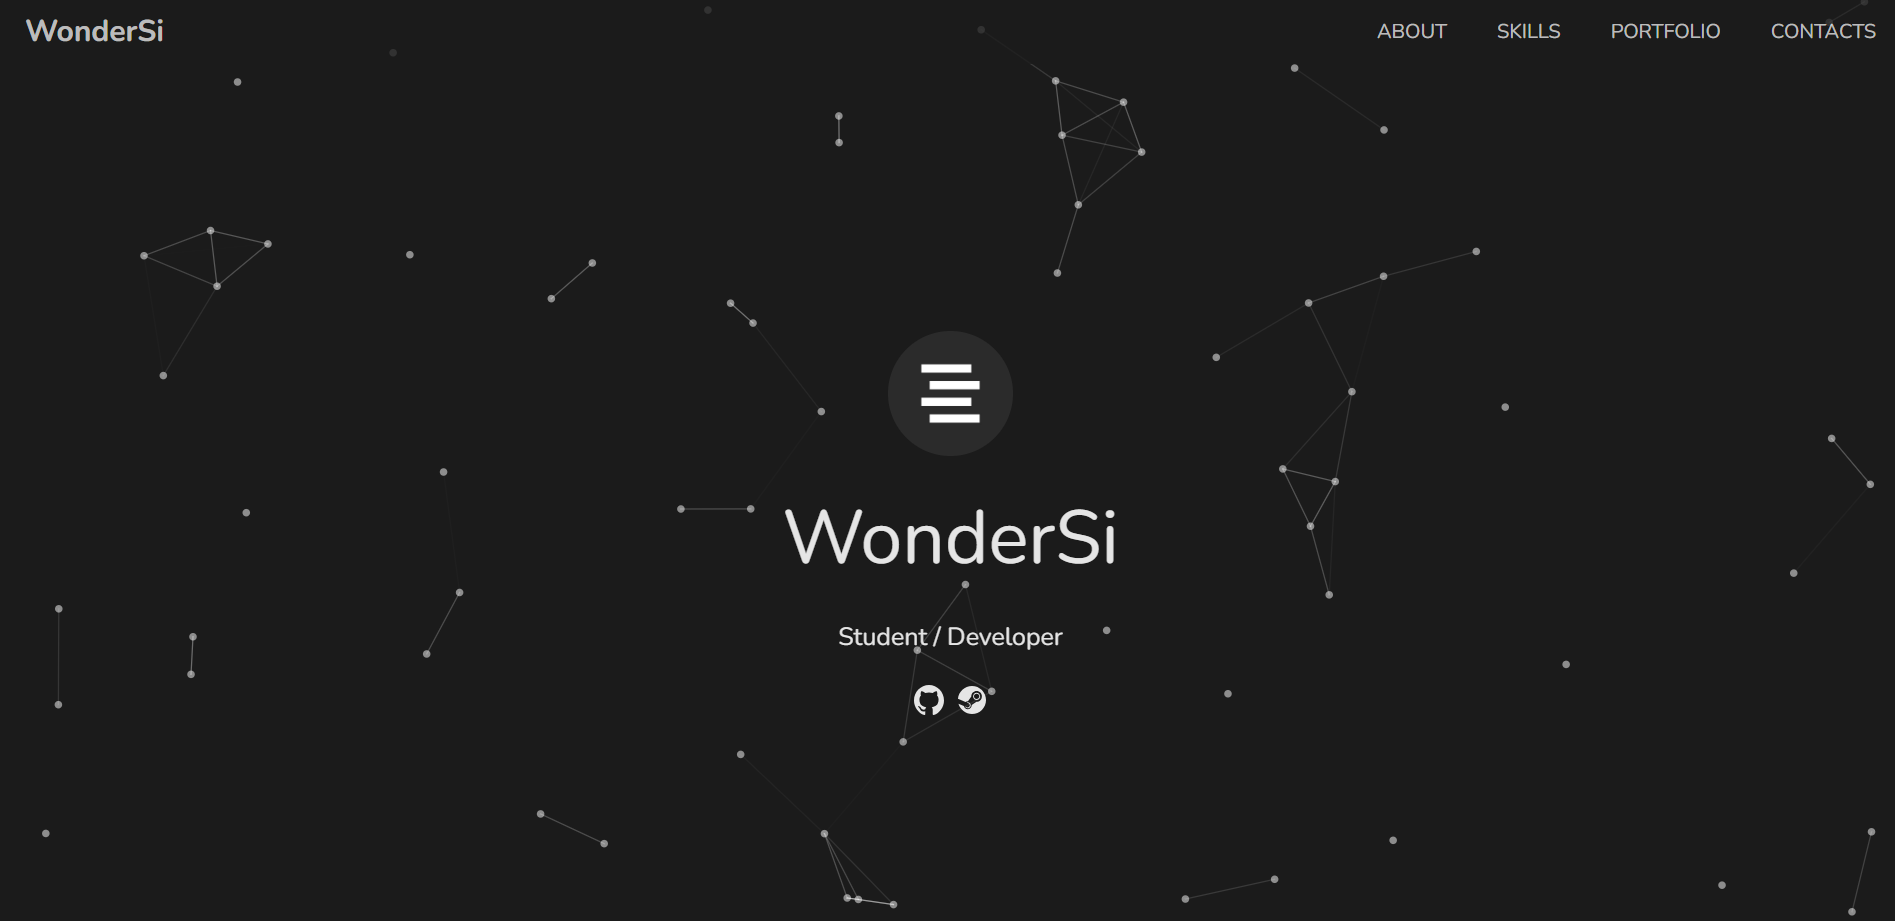
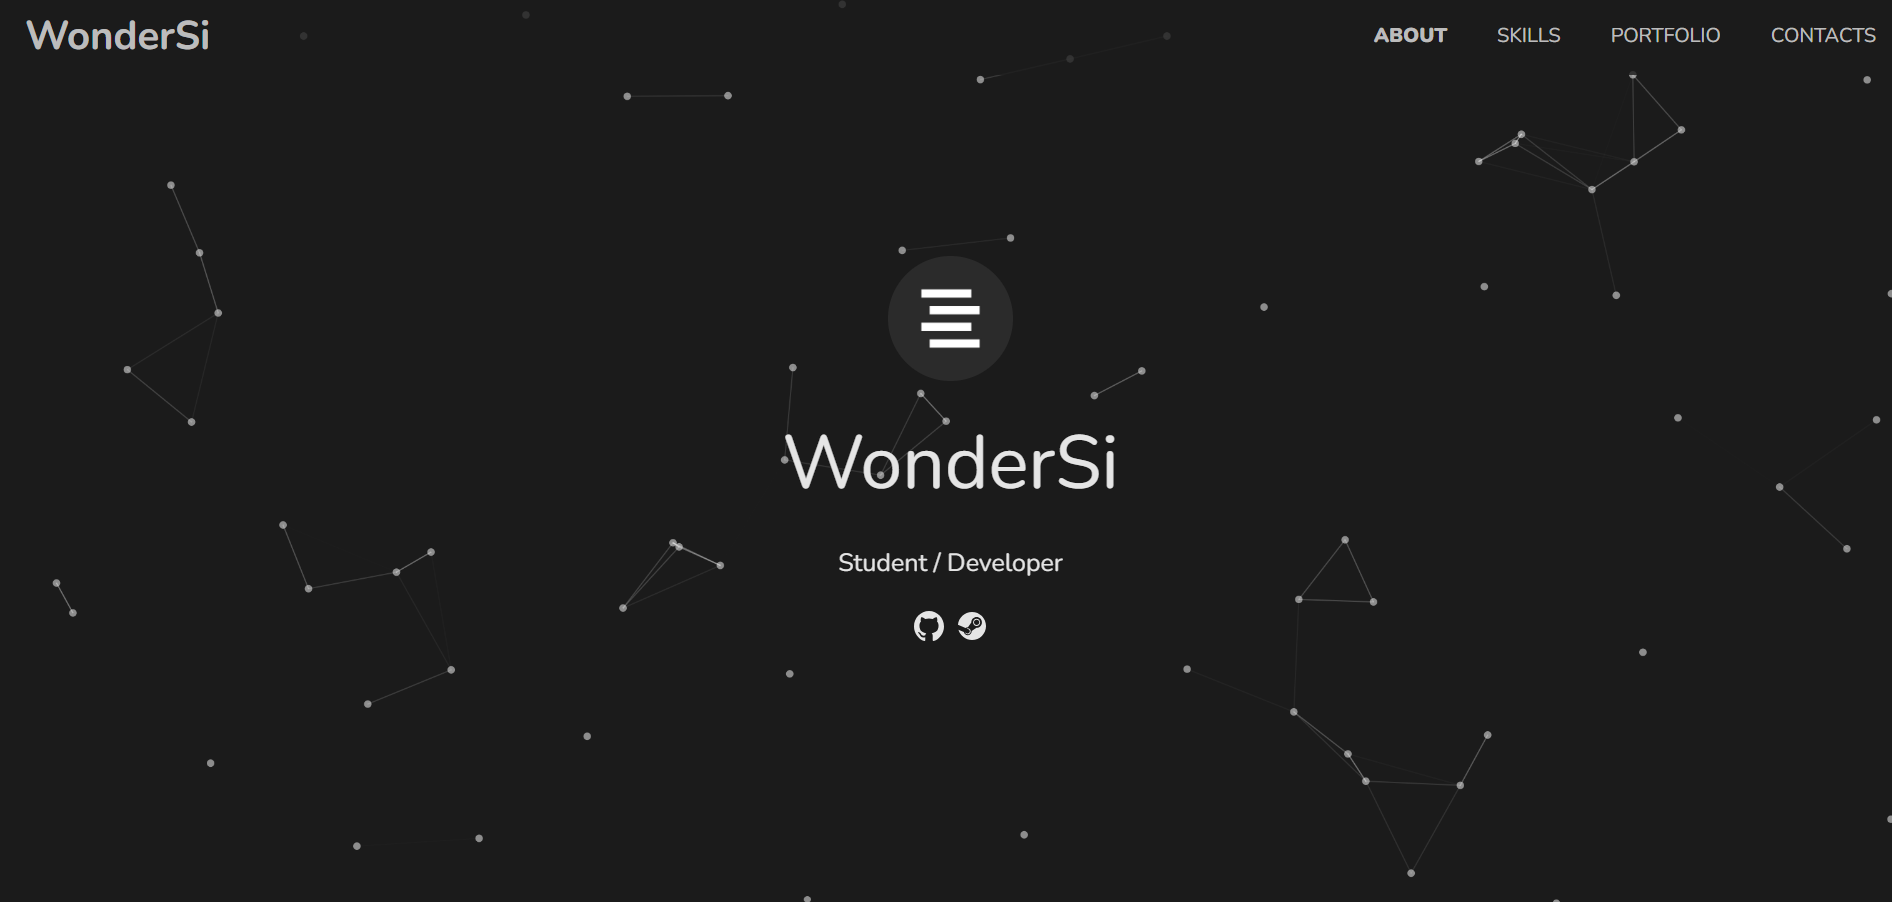
add images

diff --git a/js/script.js b/js/script.js
@@ -22,7 +22,7 @@ $(document).ready(function() {
 
         setTimeout(function() {
             $('#feedbackForm')[0].reset();
-            $('#feedbackForm .form-group').removeClass('error');
+            $('#feedbackForm .form_group').removeClass('error');
         }, 300)
     }
 
@@ -49,16 +49,16 @@ $(document).ready(function() {
         return isValid
     }
 
-    $('.open-modal-btn').on('click', function() {
+    $('.open_modal_btn').on('click', function() {
         const modalId = $(this).data('modal');
         $(`#${modalId}`).addClass('show');
     })
 
-    $('.close-modal').on('click', function() {
+    $('.close_modal').on('click', function() {
         closeModal();
     });
 
-    $('.btn-cancel').on('click', function() {
+    $('.btn_cancel').on('click', function() {
         closeModal();
     });
 
@@ -89,7 +89,7 @@ $(document).ready(function() {
             return
         }
 
-        const submitBtn = $('.btn-submit');
+        const submitBtn = $('.btn_submit');
         const originalText = submitBtn.text();
         submitBtn.prop('disabled', true).text('Отправка...');
 
@@ -108,13 +108,13 @@ $(document).ready(function() {
 
                 setTimeout(function() {
                     $('#successModal').addClass('show');
-                    $('#successModal .toast-content').css({
+                    $('#successModal .toast_content').css({
                         'transform': 'translateY(0)',
                         'opacity': '1'
                         });
 
                     setTimeout(function() {
-                        $('#successModal .toast-content').css({
+                        $('#successModal .toast_content').css({
                             'transform': 'translateY(-30px)',
                             'opacity': '0'
                             });
@@ -128,13 +128,13 @@ $(document).ready(function() {
 
                 setTimeout(function() {
                     $('#errorModal').addClass('show');
-                    $('#errorModal .toast-content').css({
+                    $('#errorModal .toast_content').css({
                         'transform': 'translateY(0)',
                         'opacity': '1'
                         });
 
                     setTimeout(function() {
-                        $('#errorModal .toast-content').css({
+                        $('#errorModal .toast_content').css({
                             'transform': 'translateY(-30px)',
                             'opacity': '0'
                             });
